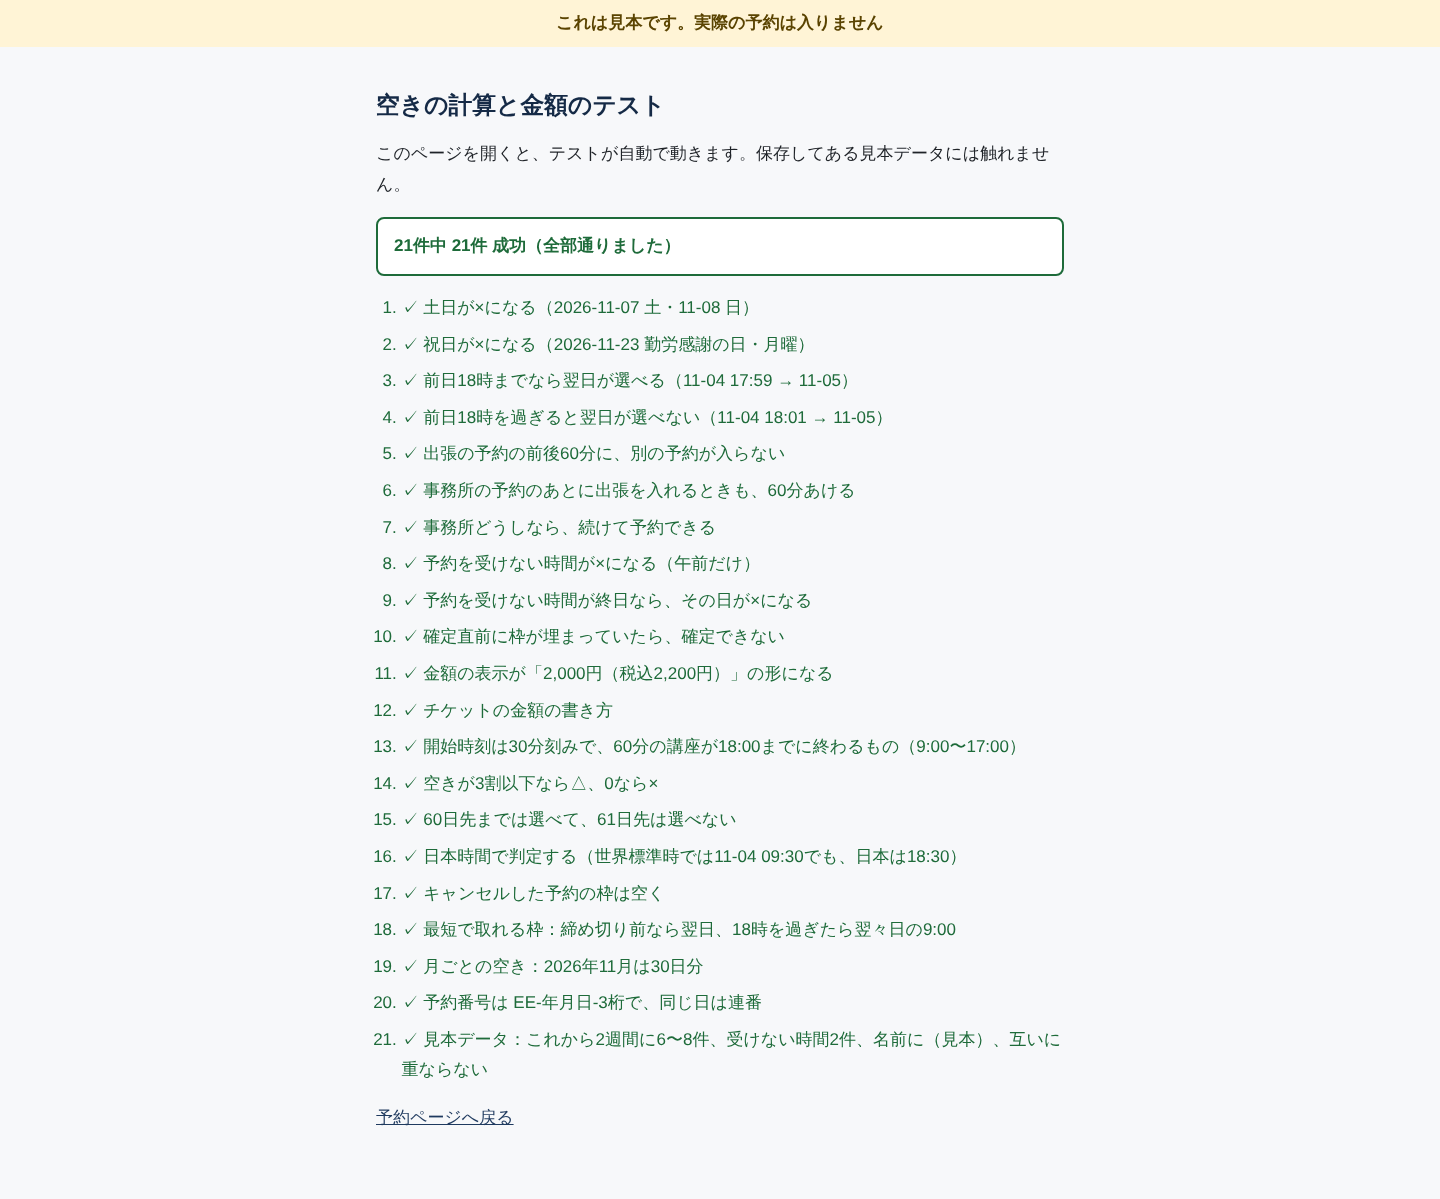
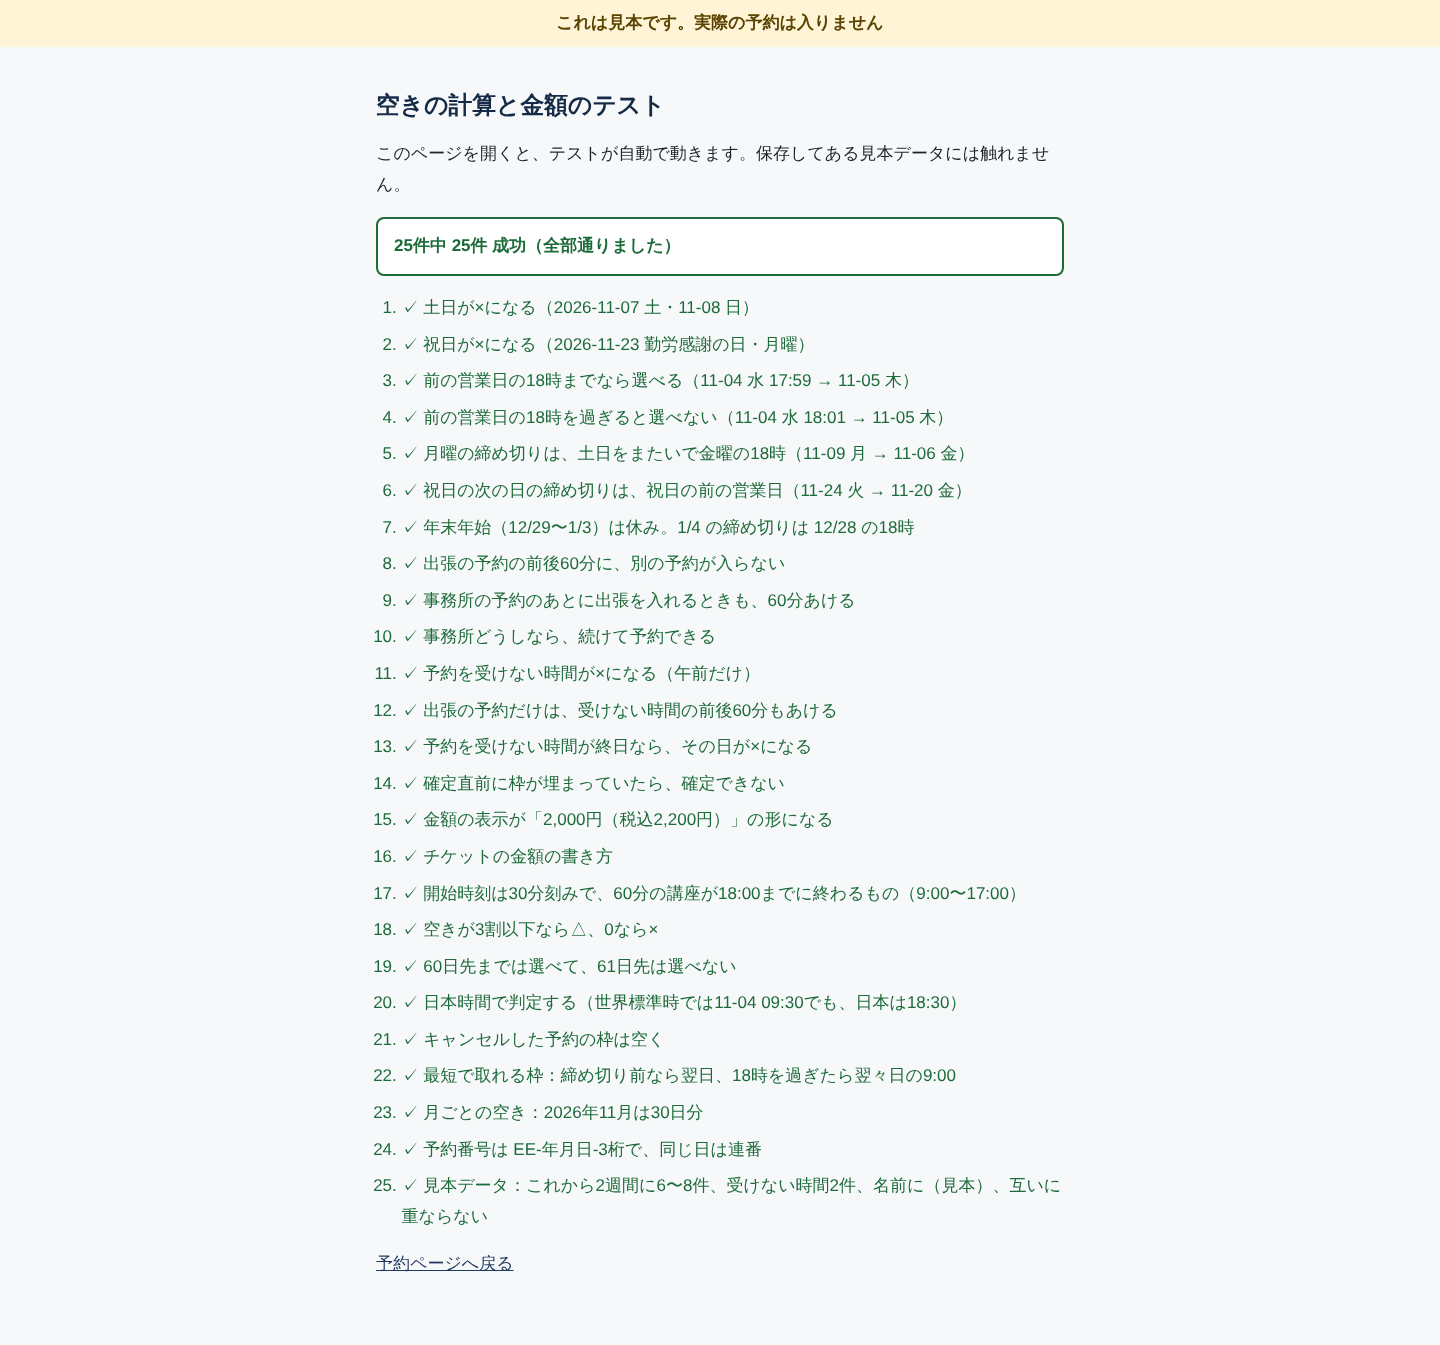
たけさんの返事を反映：締め切りを前の営業日に・年末年始休み・出張と受けない時間の間に移動時間
- 締め切りを「前の営業日の18:00まで」に変更（土日祝・年末年始をまたぐ場合も）
- 12/29〜1/3 を休みに（CLOSED_PERIODS）
- 出張の予約だけ、受けない時間の前後60分をあける
- 変更・キャンセルの連絡先（見本）を data.js に追加
- DATA_VERSION を 2 に。テスト25件すべて成功

Claude-Session: https://claude.ai/code/session_01AePBphbeENamqB98WBoaxy

Changed region(s): [[0.0, 0.0, 1.0, 0.9566]]

diff --git a/js/availability.js b/js/availability.js
@@ -7,7 +7,7 @@
 //
 // 日付は 'YYYY-MM-DD'、時刻は 'HH:MM' の文字列で、すべて日本時間。
 // 「今の日時」は必ず引数で受け取る（テストで好きな日時にできるように）。
-// 使うデータ：js/data.js（RULES・COURSES・PLACES・HOLIDAYS・REASONS）
+// 使うデータ：js/data.js（RULES・COURSES・PLACES・HOLIDAYS・CLOSED_PERIODS・REASONS）
 // =============================================================
 
 const Availability = (function () {
@@ -70,21 +70,26 @@ const Availability = (function () {
     return dateToNumber(date) + (toMinutes(time) - RULES.utcOffsetMinutes) * MS_PER_MINUTE;
   }
 
+  // 祝日・お休みの期間なら、その名前つきで返す
   function holidayOf(date) {
-    return HOLIDAYS.find((h) => h.date === date) || null;
+    const holiday = HOLIDAYS.find((h) => h.date === date);
+    if (holiday) return holiday;
+    const period = CLOSED_PERIODS.find((p) => p.from <= date && date <= p.to);
+    return period ? { date, name: period.name } : null;
   }
 
-  // 予約を受ける日か（平日で、祝日でない）
+  // 予約を受ける日か（平日で、祝日・お休みでない）
   function isOpenDay(date) {
     return RULES.openWeekdays.includes(weekday(date)) && !holidayOf(date);
   }
 
-  // date から数えて n 営業日目の日付（n=1 なら次の営業日）
+  // date から数えて n 営業日目の日付（n=1 なら次の営業日、n=-1 なら前の営業日）
   function addBusinessDays(date, n) {
+    const step = n > 0 ? 1 : -1;
     let d = date;
     let count = 0;
-    while (count < n) {
-      d = addDays(d, 1);
+    while (count < Math.abs(n)) {
+      d = addDays(d, step);
       if (isOpenDay(d)) count++;
     }
     return d;
@@ -92,9 +97,13 @@ const Availability = (function () {
 
   // ---------- きまりごとの判定 ----------
 
-  // 受付の締め切りを過ぎたか（前日の18:00まで）
+  // 受付の締め切りを過ぎたか（前の営業日の18:00まで。土日祝をまたぐときも営業日で数える）
+  function deadlineDateOf(date) {
+    return addBusinessDays(date, -RULES.deadlineBusinessDaysBefore);
+  }
+
   function isPastDeadline(date, now) {
-    const deadlineDate = addDays(date, -RULES.deadlineDaysBefore);
+    const deadlineDate = deadlineDateOf(date);
     return now.getTime() > japanTimeToMs(deadlineDate, RULES.deadlineTime);
   }
 
@@ -135,8 +144,9 @@ const Availability = (function () {
     if (isTooFar(date, now)) return 'outOfRange';
     if (isPastDeadline(date, now)) return 'deadline';
 
-    const blocked = records.blocks.some((b) =>
-      b.date === date && overlaps(start, end, toMinutes(b.start), toMinutes(b.end)));
+    const dayBlocks = records.blocks.filter((b) => b.date === date);
+    const blocked = dayBlocks.some((b) =>
+      overlaps(start, end, toMinutes(b.start), toMinutes(b.end)));
     if (blocked) return 'blocked';
 
     const sameDay = records.bookings.filter((b) => b.date === date && b.status !== 'cancelled');
@@ -152,6 +162,11 @@ const Availability = (function () {
       return overlaps(start - gap, end + gap, toMinutes(b.start), toMinutes(b.end));
     });
     if (tooClose) return 'travel';
+
+    // 出張の予約だけは、受けない時間（議会など）との前後にも移動時間をあける
+    const tooCloseToBlock = place.bufferMinutes > 0 && dayBlocks.some((b) =>
+      overlaps(start - place.bufferMinutes, end + place.bufferMinutes, toMinutes(b.start), toMinutes(b.end)));
+    if (tooCloseToBlock) return 'travel';
 
     return null;
   }
@@ -268,6 +283,7 @@ const Availability = (function () {
     nowInJapan,
     isOpenDay,
     addBusinessDays,
+    deadlineDateOf,
     findCourse,
     findPlace,
   };

diff --git a/tests/tests.js b/tests/tests.js
@@ -64,15 +64,38 @@ test('祝日が×になる（2026-11-23 勤労感謝の日・月曜）', () => {
   assertEqual(d.holidayName, '勤労感謝の日', '祝日の名前');
 });
 
-test('前日18時までなら翌日が選べる（11-04 17:59 → 11-05）', () => {
+test('前の営業日の18時までなら選べる（11-04 水 17:59 → 11-05 木）', () => {
   const d = day({ ...OFFICE, date: '2026-11-05', records: emptyRecords() }, jst('2026-11-04 17:59'));
   assertEqual(d.mark, '○', '翌日の印');
 });
 
-test('前日18時を過ぎると翌日が選べない（11-04 18:01 → 11-05）', () => {
+test('前の営業日の18時を過ぎると選べない（11-04 水 18:01 → 11-05 木）', () => {
   const d = day({ ...OFFICE, date: '2026-11-05', records: emptyRecords() }, jst('2026-11-04 18:01'));
   assertEqual(d.mark, '×', '翌日の印');
   assertEqual(d.reasonText, '締め切り後', '翌日の理由');
+});
+
+test('月曜の締め切りは、土日をまたいで金曜の18時（11-09 月 → 11-06 金）', () => {
+  const fri = day({ ...OFFICE, date: '2026-11-09', records: emptyRecords() }, jst('2026-11-06 17:59'));
+  const sat = day({ ...OFFICE, date: '2026-11-09', records: emptyRecords() }, jst('2026-11-07 10:00'));
+  assertEqual(fri.mark, '○', '金曜 17:59');
+  assertEqual(sat.reasonText, '締め切り後', '土曜 10:00');
+});
+
+test('祝日の次の日の締め切りは、祝日の前の営業日（11-24 火 → 11-20 金）', () => {
+  assertEqual(Availability.deadlineDateOf('2026-11-24'), '2026-11-20', '締め切りの日');
+  const sun = day({ ...OFFICE, date: '2026-11-24', records: emptyRecords() }, jst('2026-11-22 10:00'));
+  assertEqual(sun.reasonText, '締め切り後', '日曜 10:00');
+});
+
+test('年末年始（12/29〜1/3）は休み。1/4 の締め切りは 12/28 の18時', () => {
+  const now = jst('2026-12-01 10:00');
+  ['2026-12-29', '2026-12-31', '2027-01-03'].forEach((date) => {
+    const d = day({ ...OFFICE, date, records: emptyRecords() }, now);
+    assertEqual(d.reasonText, '休み', date);
+  });
+  assertEqual(day({ ...OFFICE, date: '2026-12-28', records: emptyRecords() }, now).mark, '○', '12-28');
+  assertEqual(Availability.deadlineDateOf('2027-01-04'), '2026-12-28', '1/4 の締め切りの日');
 });
 
 test('出張の予約の前後60分に、別の予約が入らない', () => {
@@ -112,6 +135,17 @@ test('予約を受けない時間が×になる（午前だけ）', () => {
   assertEqual(slotAt(d, '09:00').reasonText, '受けない時間', '09:00');
   assertEqual(slotAt(d, '11:30').reasonText, '受けない時間', '11:30（12:30まで）');
   assertEqual(slotAt(d, '12:00').available, true, '12:00');
+});
+
+test('出張の予約だけは、受けない時間の前後60分もあける', () => {
+  const records = emptyRecords();
+  records.blocks.push({ id: 'b1', date: '2026-11-11', start: '09:00', end: '12:00', reason: '議会のため' });
+  const visit = day({ courseId: 'beginner', placeId: 'visit', date: '2026-11-11', records }, NOW);
+  assertEqual(slotAt(visit, '12:00').reasonText, '移動時間', '出張 12:00');
+  assertEqual(slotAt(visit, '12:30').reasonText, '移動時間', '出張 12:30');
+  assertEqual(slotAt(visit, '13:00').available, true, '出張 13:00');
+  const online = day({ courseId: 'beginner', placeId: 'online', date: '2026-11-11', records }, NOW);
+  assertEqual(slotAt(online, '12:00').available, true, 'オンライン 12:00');
 });
 
 test('予約を受けない時間が終日なら、その日が×になる', () => {

diff --git a/js/data.js b/js/data.js
@@ -6,7 +6,7 @@
 
 // データの版番号。中身を変えたら 1 つ上げる。
 // 上げると、ブラウザに保存してある見本データが作り直される。
-const DATA_VERSION = 1;
+const DATA_VERSION = 2;
 
 // 教室の情報（トップ画面で使う）
 const SCHOOL = {
@@ -106,7 +106,7 @@ const RULES = {
   openTime: '09:00',             // 営業の始まり
   closeTime: '18:00',            // 営業の終わり（講座はこの時刻までに終わること）
   slotStepMinutes: 30,           // 開始時刻の刻み
-  deadlineDaysBefore: 1,         // 受付の締め切り：何日前の
+  deadlineBusinessDaysBefore: 1, // 受付の締め切り：何営業日前の（土日祝・お休みは数えない）
   deadlineTime: '18:00',         //                 何時まで
   maxDaysAhead: 60,              // 何日先まで予約できるか
   fewRatio: 0.3,                 // 空きが全体のこの割合以下なら △
@@ -118,6 +118,7 @@ const RULES = {
 };
 
 // 祝日（2026年11月〜2027年3月）。土日祝は休み。
+// 2026-10-28 たけさん確認済み
 const HOLIDAYS = [
   { date: '2026-11-03', name: '文化の日' },
   { date: '2026-11-23', name: '勤労感謝の日' },
@@ -128,6 +129,48 @@ const HOLIDAYS = [
   { date: '2027-03-21', name: '春分の日' },
   { date: '2027-03-22', name: '振替休日' },
 ];
+
+// 祝日のほかのお休み（期間で書く。from〜to の両日を含む）
+const CLOSED_PERIODS = [
+  { from: '2026-12-29', to: '2027-01-03', name: '年末年始のお休み' },
+];
+
+// 変更・キャンセルの連絡先（見本のため仮の番号とメール）
+const CONTACT = {
+  phone: '0796-00-0000（見本）',
+  email: 'info@example.com（見本）',
+  deadlineText: '前の営業日の18:00まで',
+};
+
+// 完了画面の「このあとの流れ」（場所ごと）
+// ※文はたけさんの確認待ち（開発ログの質問を参照）
+const AFTER_FLOW = {
+  office: [
+    '確認のメールが届きます（見本のため、実際には送られません）',
+    'ご予約の時間に、事務所へお越しください',
+    'お支払いは当日またはチケットで',
+  ],
+  visit: [
+    '確認のメールが届きます（見本のため、実際には送られません）',
+    '豊岡市外の場合は、出張費の金額をご案内します',
+    'ご予約の時間に、ご自宅・事業所へうかがいます',
+    'お支払いは当日またはチケットで',
+  ],
+  online: [
+    '確認のメールが届きます（見本のため、実際には送られません）',
+    'ZoomのURLをお送りします',
+    'ご予約の時間に、URLからご参加ください',
+    'お支払いは当日またはチケットで',
+  ],
+};
+
+// お客様情報の最初に入れておく見本の値
+const DUMMY_CUSTOMER = {
+  name: '見本 太郎（見本）',
+  phone: '090-0000-0000',
+  email: 'mihon@example.com',
+  note: '',
+};
 
 // 空きがない理由（画面に出す言葉）
 const REASONS = {

diff --git a/開発ログ.md b/開発ログ.md
@@ -72,6 +72,31 @@ AI講座⑥「アプリ開発」の教材として、作る過程をそのまま
 
 ---
 
+## 段階1のあと　たけさんの返事を受けて直したこと（2026-10-28）
+
+たけさんの返事（質問1〜8）：
+
+1. 受けない時間の前後 → **出張の予約だけ**前後60分をあける
+2. 予約番号の年月日 → 受講日のままでよい
+3. 締め切り → **前の営業日の18:00まで**（土日祝をまたぐ場合も）
+4. 年末年始 → **12/29〜1/3は休み**
+5. 一言紹介 → 仮の文のままでよい
+6. 変更・キャンセルの連絡先 → 仮の番号とメールに「（見本）」をつける。受け付ける期限は「前の営業日の18:00まで」
+7. 紺 → `#1f3a5f` のまま（ロゴの色が分かったら差し替え）
+8. △の基準 → 17枠のうち空き5枠以下でよい
+
+直したこと：
+
+- 締め切りを「前日」から「前の営業日」に変えた。`RULES.deadlineDaysBefore` をやめて `deadlineBusinessDaysBefore` にし、`addBusinessDays` を後ろ向き（-1）にも数えられるようにした。月曜の予約は金曜18:00、祝日明けの火曜（11/24）は前の金曜（11/20）18:00まで
+- 年末年始を `CLOSED_PERIODS`（期間で書く）として `data.js` に足した。祝日と同じく「休み」になり、締め切りの計算でも営業日として数えない（1/4 の締め切りは 12/28 18:00）
+- 出張の予約のときだけ、受けない時間の前後60分を「移動時間」として埋めるようにした（事務所・オンラインは今までどおり）
+- 変更・キャンセルの連絡先 `CONTACT` を `data.js` に足した（段階2の確認画面で使う）
+- 中身を変えたので `DATA_VERSION` を 1 → 2 に上げた（保存してある見本データが作り直される）
+- テストを4件足して25件に。全部通った
+- **祝日：** たけさんが確かめた一覧（11/3・11/23・1/1・1/11・2/11・2/23・3/21（日）・3/22（月・振替休日））と `data.js` の8件が一致することを確かめた。**祝日はたけさん確認済み。**（「公式で未確認」という書きこみは開発ログに見当たらなかったので、この一文を新しく足した）
+
+---
+
 ## 本番化で必要なこと
 
 （段階を進めながら書き足す）
